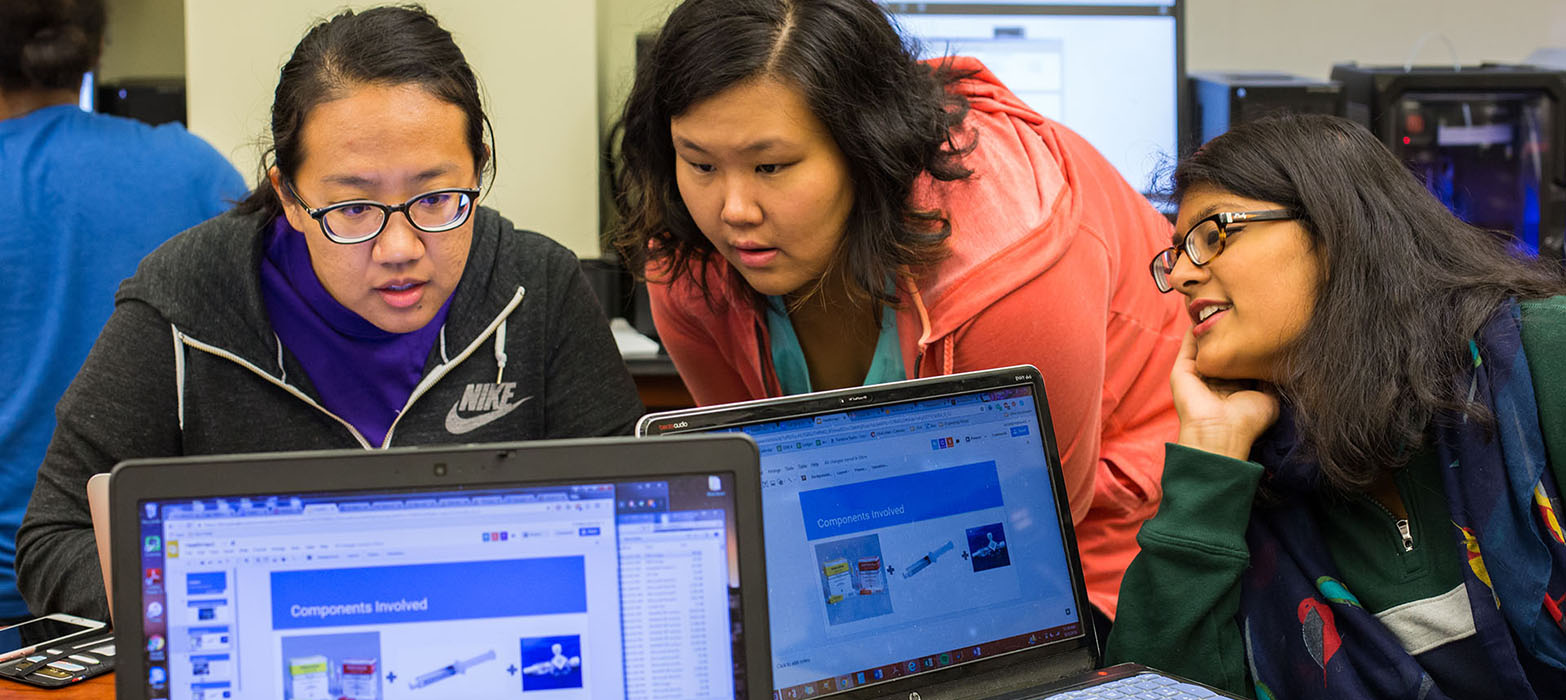
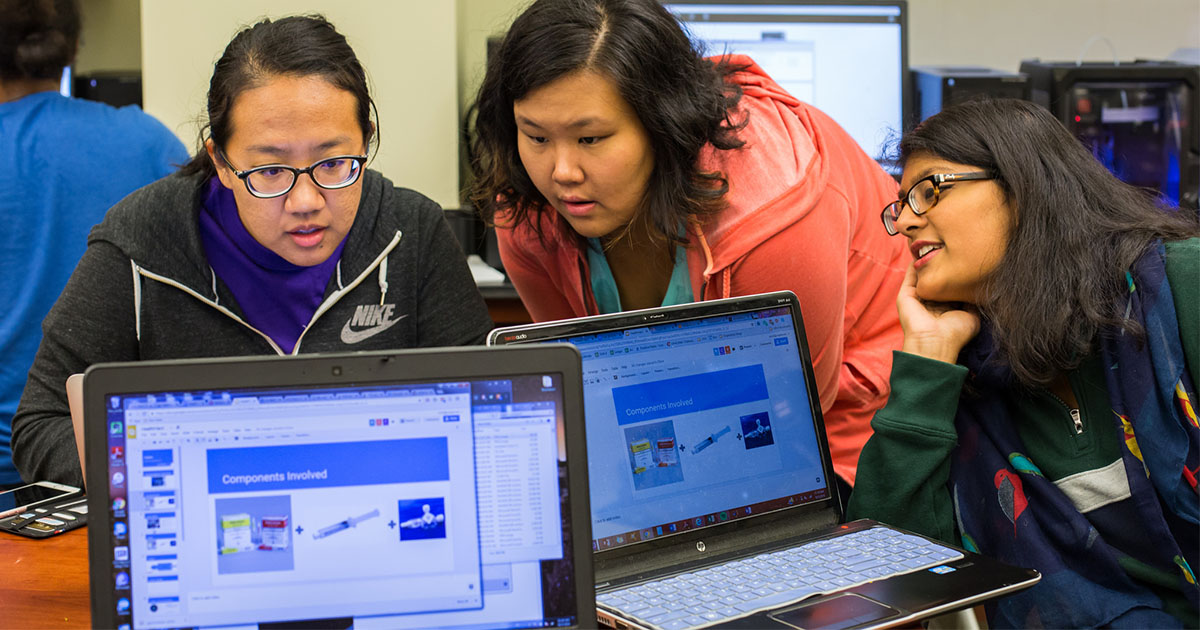
Updating images to meet social sharing best practices

diff --git a/CONTRIBUTING.md b/CONTRIBUTING.md
@@ -6,9 +6,10 @@ maximize the impact of the content on the OpenEMR Blog
 ## Images
 
 Images are key to helping share your story; Use images throughout your writing.
-With regards to social sharing, we support up to 6 different images for sites
-to chose. Every story should have at least one image; this can be a photograph
-or a form of iconography.
+With regards to social sharing, we support up to 6 different images for sites to
+chose. Every story should have at least one image; this can be a photograph or a
+form of iconography.
 
-We recommend photos to be at least 1200 x 630 pixels (max of 4096x4096px) for best viewing on high-resolution displays. Photos for sharing should not exceed
-5 MB.
+We recommend photos to be at least 1200 x 630 pixels (max of 4096x4096px) for
+best viewing on high-resolution displays. Photos for sharing should not exceed 5
+MB.
